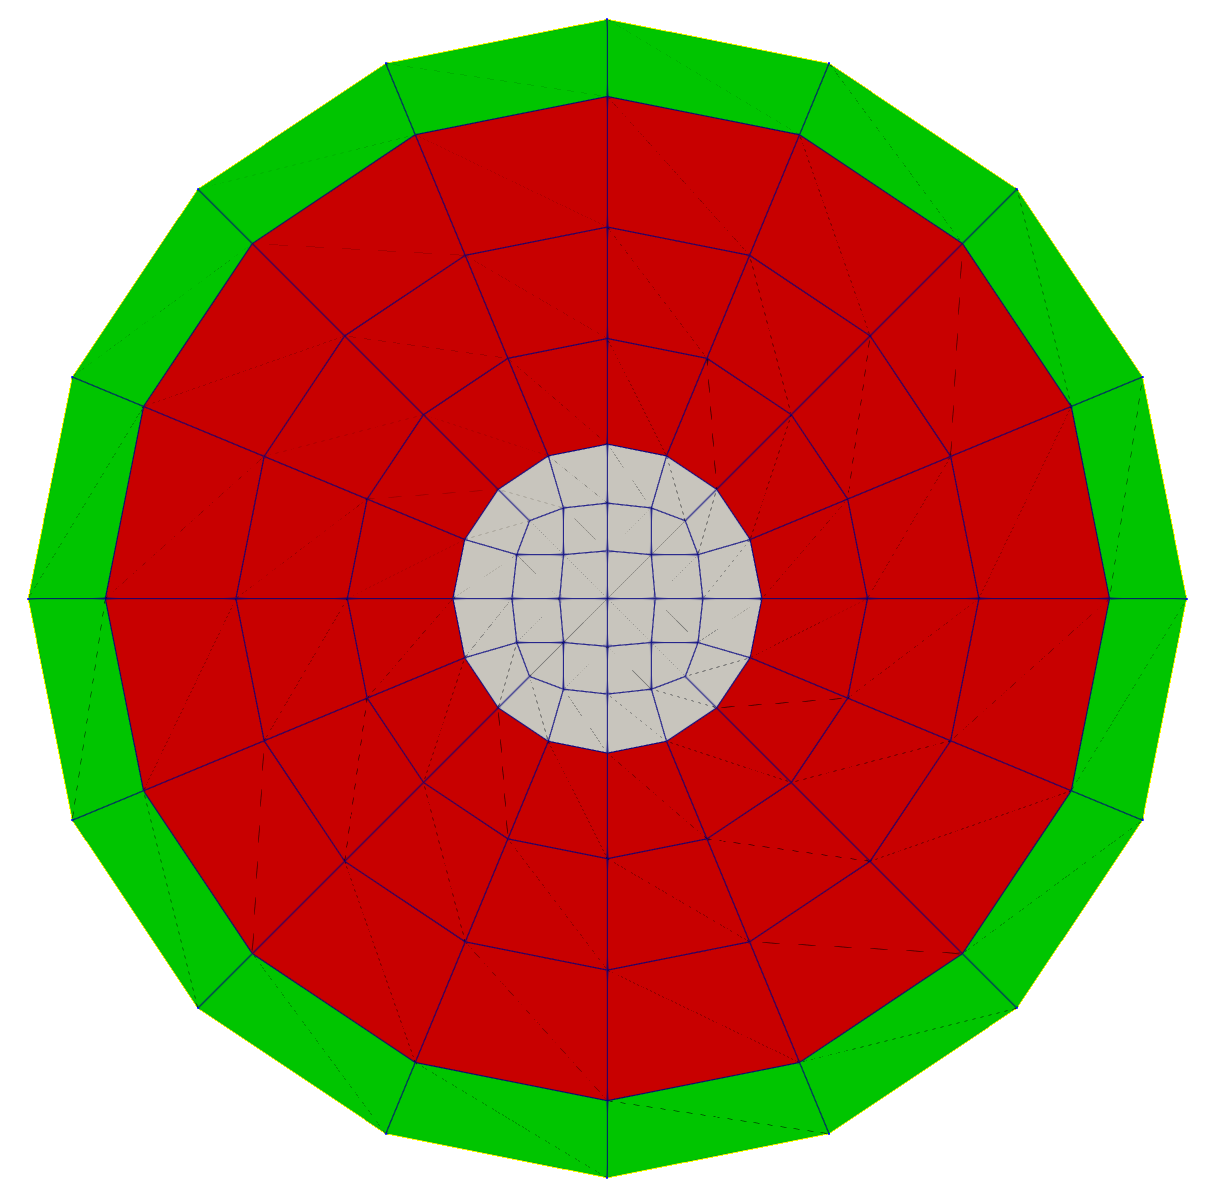
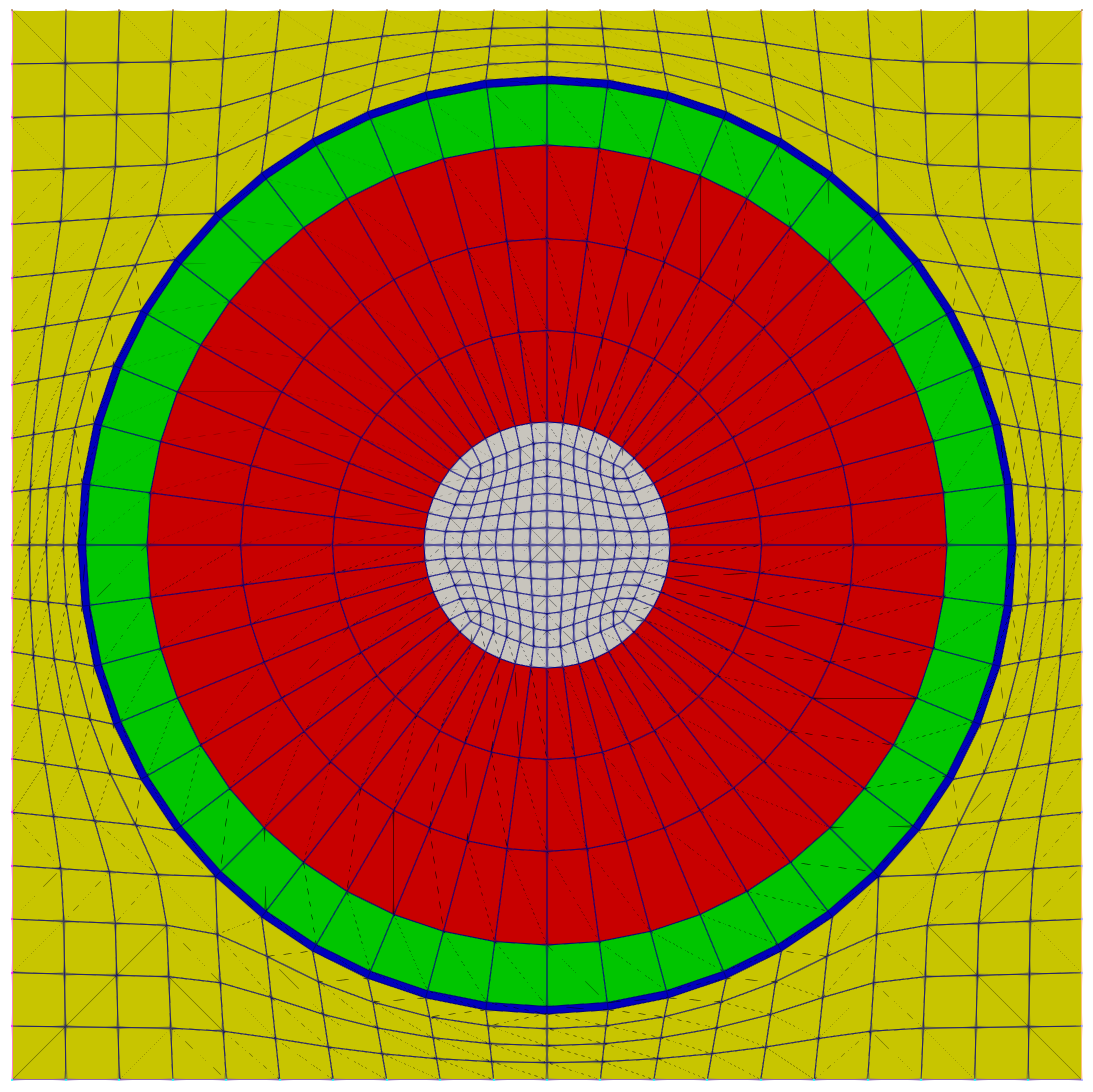
more changes

diff --git a/tutorials/ictp/doc/content/ictp/step1_input_and_meshing.md b/tutorials/ictp/doc/content/ictp/step1_input_and_meshing.md
@@ -58,7 +58,7 @@ cardinal-opt -i step1-1_meshing.basic.i --mesh-only
 ## MeshGenerator System
 
 - The previous example utilized the MOOSE [`MeshGenerator`](Mesh/index.md) system
-- It only utilized a single `MeshGenerator`, but multiple can be chained together using the `input` parameter
+- It only utilized a single `MeshGenerator`, but multiple can be chained together (examples to follow)
 - All of our examples that follow (including the Cardinal tutorial) will utilize the [`MeshGenerator`](Mesh/index.md) system
 - The [`Reactor`](reactor/index.md) module supports the systematic mesh generation of common reactor types
 
@@ -106,9 +106,15 @@ radius = ${fparse diameter/2}
 
 !--
 
-## Concentric Circle Mesh
+## Fuel Pin Mesh
 
-Let's generate a more interesting mesh, one that represents something like a fuel pin in 2D:
+The grid we've generated so far isn't particularly interesting.
+
+Let's generate a mesh that represents represents a fuel pin surrounded by water in a square lattice using the [`ConcentricCircleMeshGenerator`](ConcentricCircleMeshGenerator.md).
+
+!--
+
+## Concentric Circle Mesh
 
 !listing moose/step1-2_concentric_circle.i
 
@@ -127,29 +133,110 @@ cardinal-opt -i step1-2_concentric_circle.i --mesh-only
 !style halign=center
 !media step1-2_mesh.png style=width:25%
 
-The grey elements represent void (subdomain `1`), the red elements represent the fuel (subdomain `2`), and the green elements represent the clad (subdomain `3`). There is a sideset on the outer boundary with name `outer` and ID `1`.
+This mesh has five blocks (also called subdomains):
+
+- $1$: The inner hole (grey)
+- $2$: The fuel meat (red)
+- $3$: The cladding (green)
+- $4$: The water boundary layer (blue)
+- $5$: The remaining water (yellow)
 
 !---
 
-## Concentric Circle Mesh With Hole
+## Separating Meshes
 
-For the purposes of this tutorial, we will consider no net heat transfer within or across the void region. Thus, let's remove it from the mesh:
+Later in this tutorial, we will be treating the fuel pin and the surrounding fluid independently. Thus, we will now take the mesh that we just generated and separate it into two components: one for the fuel pin and one for the fluid.
 
-!listing moose/step1-3_concentric_circle_no_void.i diff=moose/step1-2_concentric_circle.i
+This task reveals a capability of MeshGenerators - they can be combined together. Some MeshGenerators generate meshes, some modify meshes, and some do both. Oftentimes a generator will have an input parameter called `input`, which is used as the name of another MeshGenerator to be used as input to modify.
 
-!---
+For the tasks that follow, we will utilize the:
 
-## Run: Concentric Circle Mesh With Hole
+- [`BlockDeletionGenerator`](BlockDeletionGenerator.md): Removes blocks from a mesh
+- [`RenameBlockGenerator`](RenameBlockGenerator.md): Renames and optionally merges blocks on a mesh
+- [`RenameBoundaryGenerator`](RenameBoundaryGenerator.md): Renames and optionally merges boundaries on a mesh
+
+!--
+
+## Fuel Mesh
+
+- Remove the water elements using the [`BlockDeletionGenerator`](BlockDeletionGenerator.md)
+- Remove the hole (assume no net heat transfer across the hole) using the [`BlockDeletionGenerator`](BlockDeletionGenerator.md)
+- Name the blocks that contain the fuel and cladding using the [`RenameBlockGenerator`](RenameBlockGenerator.md)
+
+!--
+
+## Input: Fuel Mesh
+
+!listing moose/step1-3_fuel_pin.i
+
+!--
+
+## Run: Fuel Mesh
+
+Here, we add a value to `--mesh-only` that stores the resulting mesh in `fuel_pin.e`:
 
 ```bash
-cardinal-opt -i step1-3_concentric_circle_no_void.i --mesh-only
+cardinal-opt -i step1-3_fuel_pin.i --mesh-only fuel_pin.e
 ```
 
 !---
 
-## Result: Concentric Circle Mesh Input With Hole
+## Result: Fuel Mesh
 
 !style halign=center
-!media step1-3_mesh.png style=width:25%
+!media step1-3_mesh.png style=width:35%
 
-The grey elements represent the fuel (subdomain `2`), and the red elements represent the clad (subdomain `3`). There is a sideset on the outer boundary with name `outer` and ID `1` and sideset on the inner boundary with the name `inner` and ID `2` .
+The grey elements represent the fuel (block `fuel`), and the red elements represent the cladding (block `clad`). There is a sideset on the outer boundary with name `outer` and sideset on the inner boundary with the name `inner`.
+
+!---
+
+## Fluid Mesh
+
+- Remove the fuel pin elements using the [`BlockDeletionGenerator`](BlockDeletionGenerator.md)
+- Merge the water boundary layer and remaining water blocks into a single block named `water` using the [`RenameBlockGenerator`](RenameBlockGenerator.md)
+- Rename and merge the outer boundaries into a single boundary `outer` using the [`RenameBoundaryGenerator`](RenameBoundaryGenerator.md)
+
+!---
+
+## Input: Fluid Mesh
+
+!listing moose/step1-4_fluid.i
+
+!---
+
+## Run: Fluid Mesh
+
+Generate the mesh and output it to `fluid.e`:
+
+```bash
+cardinal-opt -i step1-4_fluid.i --mesh-only fluid.e
+```
+
+!---
+
+## Result: Fluid Mesh
+
+!style halign=center
+!media step1-4_mesh.png style=width:35%
+
+The grey elements represent the water (block `water`). There is a sideset on the inner boundary with the name `inner` and a sideset on the outer boundary with the name `outer`.
+
+!---
+
+## Re-using The Meshes
+
+We can then load these meshes in later inputs with:
+
+```moose
+[Mesh/fuel_pin]
+  type = FileMeshGenerator
+  file = fuel_pin.e
+[]
+```
+
+```moose
+[Mesh/fluid]
+  type = FileMeshGenerator
+  file = fluid.e
+[]
+```

diff --git a/tutorials/ictp/doc/content/ictp/step2_diffusion.md b/tutorials/ictp/doc/content/ictp/step2_diffusion.md
@@ -2,16 +2,16 @@
 
 !---
 
-## Basic Diffusion Problem
+## Diffusion Problem
 
-Let's solve a basic diffusion problem on our pin mesh.
+Let's solve a diffusion problem on our pin mesh to introduce the solving of a basic finite element problem.
 
 Consider the steady-state diffusion equation on the domain $\Omega$ (our pin cell): find $u$ such that
 
 !equation
 -\nabla \cdot \nabla u = 0 \in \Omega,
 
-where $u = 0$ and $u = 1$ on the exterior.
+where $u = 0$ on the interior and $u = 1$ on the exterior.
 
 The weak form of this equation, in inner-product notation, is given by:
 
@@ -52,9 +52,11 @@ We will go through each of these individually.
 
 Define the variable $u$:
 
-!listing moose/step2_diffusion.i block=Variables
+!listing moose/step2-1_diffusion.i block=Variables
 
-The default parameters designate first-order linear Lagrange shape functions.
+Variables can be thought of as the equation(s) you are trying to solve.
+
+The default parameters designate first-order linear Lagrange shape functions, thus without any additional parameters we end up with these shape functions.
 
 !--
 
@@ -62,7 +64,11 @@ The default parameters designate first-order linear Lagrange shape functions.
 
 Define a [`Diffusion`](Diffusion.md) kernel on the variable `u`:
 
-!listing moose/step2_diffusion.i block=Kernels
+!listing moose/step2-1_diffusion.i block=Kernels
+
+A Kernel represents an object that contributes to the residual and the Jacobian matrix. Multiple can be used and they can also be coupled to one another to add nonlinearity.
+
+Kernels can be "block restricted" (applied to a subset of the physical mesh) via the `block` parameter.
 
 !--
 
@@ -70,7 +76,7 @@ Define a [`Diffusion`](Diffusion.md) kernel on the variable `u`:
 
 Define two [`DirichletBC`](DirichletBC.md) boundary conditions on the variable `u`; one on the boundary `inner` with a value of `0` and one on the boundary `outer` with a value of `1`:
 
-!listing moose/step2_diffusion.i block=BCs
+!listing moose/step2-1_diffusion.i block=BCs
 
 !--
 
@@ -78,7 +84,7 @@ Define two [`DirichletBC`](DirichletBC.md) boundary conditions on the variable `
 
 Define a [`Steady`](Steady.md) executioner:
 
-!listing moose/step2_diffusion.i block=Executioner
+!listing moose/step2-1_diffusion.i block=Executioner
 
 The other common executioner is the [`Transient`](Transient.md) executioner, which enables transient simulation.
 
@@ -88,27 +94,57 @@ The other common executioner is the [`Transient`](Transient.md) executioner, whi
 
 Use the shorthand `Outputs/exodus` syntax for enabling Exodus output:
 
-!listing moose/step2_diffusion.i block=Outputs
+!listing moose/step2-1_diffusion.i block=Outputs
 
 The shorthand syntax effectively creates a [`Exodus`](Exodus.md) output where the output files are created with the name `<input_file_name>_out.e`.
+
+Other common shorthand syntax are `Outputs/csv` for CSV output and `Outputs/nemesis` for Nemesis (distributed Exodus) field output.
 
 !--
 
 ## Input: Diffusion Problem
 
-!listing moose/step2_diffusion.i diff=moose/step1-3_concentric_circle_no_void.i
+!listing moose/step2-1_diffusion.i
 
 !---
 
 ## Run: Diffusion Problem
 
 ```bash
-cardinal-opt -i step2_diffusion.i
+cardinal-opt -i step2-1_diffusion.i
 ```
-
 !---
 
 ## Result: Diffusion Problem
 
 !style halign=center
 !media step2-1_solution.png style=width:50%
+
+!--
+
+## Diffusion with Volumetric Source
+
+Let's replace the outer boundary condition (Dirichlet setting $u$ = 1) with a volumetric source represented by the function $10^9 * \sqrt{x^2 + y^2}$.
+
+We will remove the [`DirichletBC`](DirichletBC.md) named `outer_dirichlet` and add a new Kernel of type [`BodyForce`](BodyForce.md).
+
+!--
+
+## Input: Diffusion with Volumetric Source
+
+!listing moose/step2-2_diffusion_volumetric_source.i diff=moose/step2-1_diffusion.i
+
+!---
+
+## Run: Diffusion with Volumetric Source
+
+```bash
+cardinal-opt -i step2-2_diffusion_volumetric_source.i
+```
+
+!---
+
+## Result: Diffusion with Volumetric Source
+
+!style halign=center
+!media step2-2_solution.png style=width:50%

diff --git a/tutorials/ictp/doc/content/ictp/step4_materials.md b/tutorials/ictp/doc/content/ictp/step4_materials.md
@@ -2,8 +2,50 @@
 
 !---
 
-- Add individual material properties for fuel and cladding
-- Consider this now to be a real "heat conduction" problem
-- Set inner boundary condition reflecting (no BC)
-- Set outer boundary condition to water temperature (300K)
-- Add a parabolic volumetric heat source to the problem to represent heating from fission
+## Materials
+
+Realistic problems have spatially dependent properties. Often these properties are also shared across equations (or Variables, in MOOSE world).
+
+In MOOSE, these properties are defined using the [`Materials`](Materials/index.md) system:
+
+- Material objects produce one or more named "material properties" on quadrature points
+- The values are computed on-demand (during residual and Jacobian evaluation)
+- Material properties can be of any type (scalars, vector values, etc)
+- Can be restricted to blocks for spatial variation
+- Can consume variable values (ex: fluid properties depend on $T$)
+- Can depend on other materials (adds execution dependencies)
+- Can optionally propagate derivatives through automatic differentiation
+
+Objects like Kernels then consume material properties. This pluggable design enables the convenient sharing of material properties in a well-defined manner.
+
+!---
+
+## Spatially-Dependent Diffusion
+
+We will take our previous diffusion solve and introduce coefficients of the diffusivity to the fuel region (block `fuel`, of value $100$) and the cladding region (block `clad`, of value $100$). The previous coefficient of diffusivity was $1$ for both regions.
+
+This will require two changes:
+
+- Replacing the [`Diffusion`](Diffusion.md) kernel with a [`MatDiffusion`](MatDiffusion.md) kernel, which consumes a material property named `D` for the diffusion coefficient
+- Adding two [`GenericConstantMaterial`](GenericConstantMaterial.md) Material objects, one for each of the two blocks
+
+!---
+
+## Input: Spatially-Dependent Diffusion
+
+!listing moose/step4_diffusion_materials.i diff=moose/step2-1_diffusion.i
+
+!---
+
+## Run: Spatially-Dependent Diffusion
+
+```bash
+cardinal-opt -i step4_diffusion_materials.i
+```
+
+!---
+
+## Result: Spatially-Dependent Diffusion
+
+!style halign=center
+!media step4-1_solution.png style=width:50%

diff --git a/tutorials/ictp/doc/content/ictp/step3_postprocessing.md b/tutorials/ictp/doc/content/ictp/step3_postprocessing.md
@@ -29,9 +29,9 @@ Common use cases are:
 
 ## Diffusion Problem Postprocessing
 
-For the simple diffusion problem in the previous step, the [`PostProcessor`](Postprocessors/index.md) system will be used to output the average value of the solution variable $u$ on the inner and outer boundaries:
+For the simple diffusion problem in the previous step, the [`PostProcessor`](Postprocessors/index.md) system will be used to output the average value of the solution variable $u$ on the outer boundary and within the fuel.
 
-!listing moose/step3_postprocessing.i diff=moose/step2_diffusion.i
+!listing moose/step3_postprocessing.i diff=moose/step2-1_diffusion.i
 
 !---
 
@@ -46,9 +46,11 @@ At the end of the simulation, the postprocessor values appear on screen:
 ```
 Postprocessor Values:
 +----------------+----------------+----------------+
-| time           | inner_average  | outer_average  |
+| time           | fuel_average   | outer_average  |
 +----------------+----------------+----------------+
 |   0.000000e+00 |   0.000000e+00 |   0.000000e+00 |
-|   1.000000e+00 |   0.000000e+00 |   1.000000e+00 |
+|   1.000000e+00 |   5.951556e-01 |   1.000000e+00 |
 +----------------+----------------+----------------+
 ```
+
+You may also open the `step3_postprocessing_out.csv` file to view the csv contents.

diff --git a/tutorials/darcy_thermo_mech/doc/content/workshop/intro/moose_multiphysics.md b/tutorials/darcy_thermo_mech/doc/content/workshop/intro/moose_multiphysics.md
@@ -214,9 +214,9 @@ Reactor\\
 
 ## MOOSE Coupling Strategy
 
-- Numerically separates a multiphysics solve by physics components
+- Numerically separates a multiphysics solve by physics components (equations)
 
-  - Connect physics together via transfers
+  - Connect physics together via in-memory transfer of fields and scalars
 
 - Input file based
 
